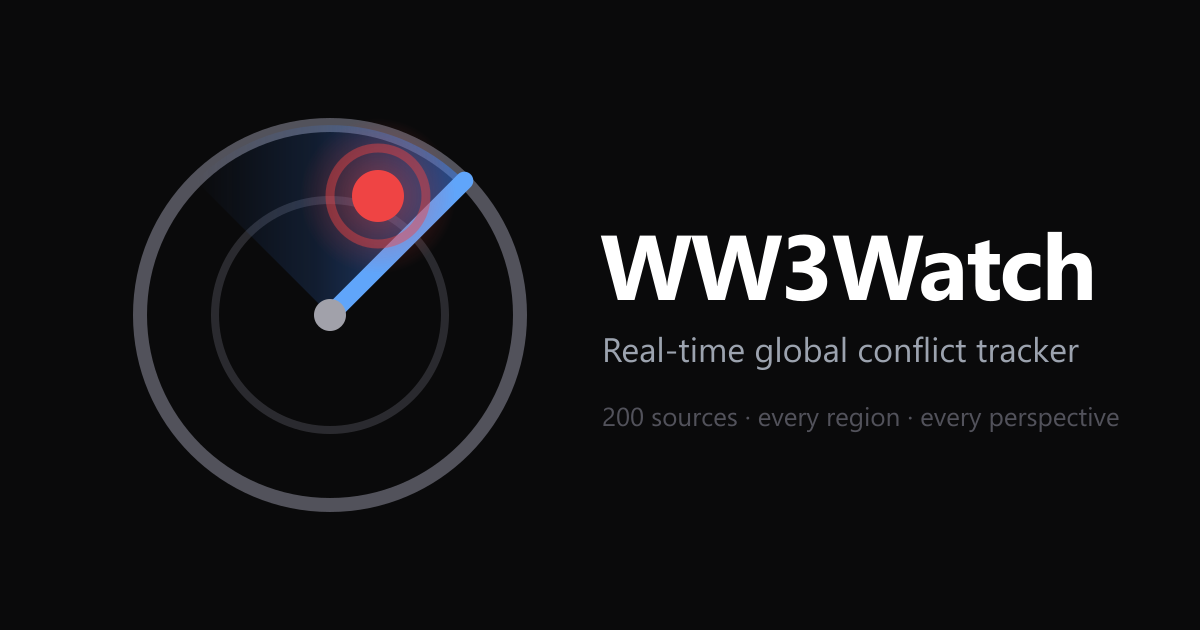
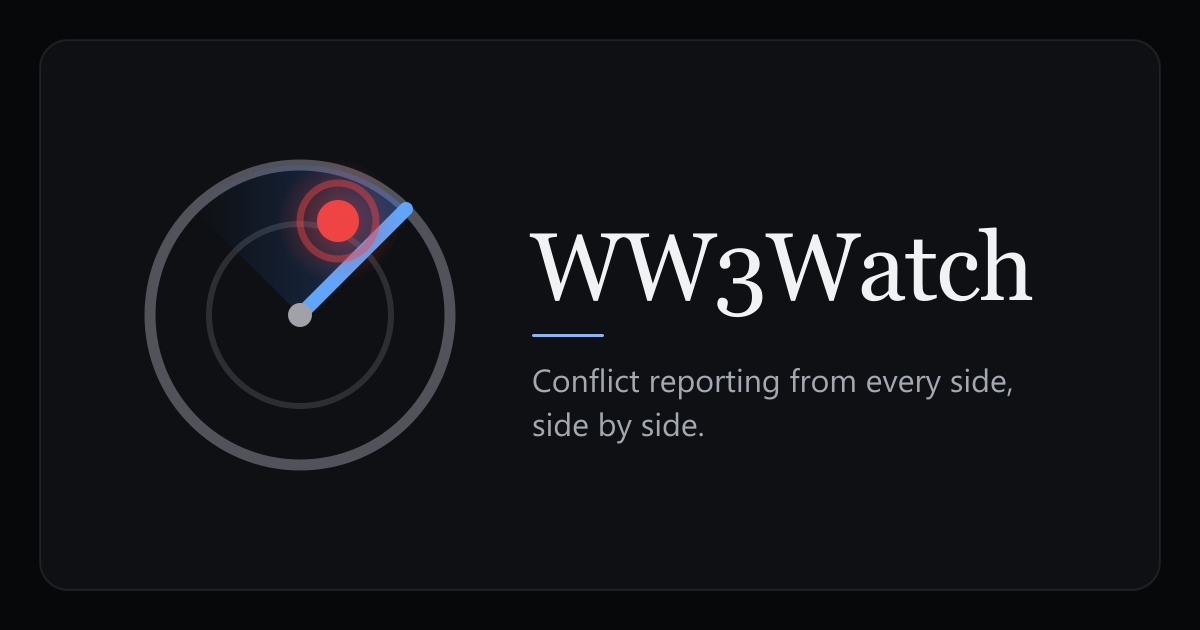
Shared links preview the story, not the site (#136)
* Shared links preview the story, not the site

Link previews read a page's meta tags without running the app, so every
shared story showed the same site card. A Cloudflare Worker in front of
ww3watch.org now fills them in for /?story= and /?article= with the
headline, source count and publisher photograph (same photo rules as the
app). Anything else, or any failure, is the untouched GitHub Pages page.

On Signal the address follows the story on screen, so Safari's own Share
button sends that story instead of the homepage. The fallback card is
redrawn in the app's theme without the stale source count.

* Set the share-card route in the dashboard, not the deploy

The deploy token keeps its Workers/Pages-only scope.

---------

Changed region(s): [[0.0925, 0.181, 0.925, 0.8143], [0.2775, 0.6032, 0.3083, 0.6333]]

diff --git a/cloudflare/share-card/index.ts b/cloudflare/share-card/index.ts
@@ -1,0 +1,94 @@
+// WW3Watch share-card — Cloudflare Worker in front of ww3watch.org.
+//
+// Why: the site is a static app on GitHub Pages, and link previews (iMessage,
+// WhatsApp, Slack, X…) read the page's meta tags without running it, so every
+// shared story used to show the same site card. For /?story= and /?article=
+// this rewrites those tags with the story's headline, sources and publisher
+// photograph (src/lib/share-card.ts). Everything else, and any failure, is the
+// untouched GitHub Pages response: the Worker can only ever improve a card.
+//
+// Local check: `npx wrangler dev` with ORIGIN=https://ww3watch.org in .dev.vars,
+// then curl http://localhost:8787/?story=<id>.
+
+import { CARD_COLUMNS, shareCard, type CardRow, type ShareCard } from '../../src/lib/share-card'
+
+interface Env {
+  SUPABASE_URL: string
+  SUPABASE_ANON_KEY: string
+  /** Dev only: where to fetch the page from instead of the real origin. */
+  ORIGIN?: string
+}
+
+const ID = /^[A-Za-z0-9_-]{1,64}$/
+
+export default {
+  async fetch(request: Request, env: Env): Promise<Response> {
+    const url = new URL(request.url)
+    const origin = () =>
+      env.ORIGIN ? fetch(new Request(new URL(url.pathname + url.search, env.ORIGIN), request)) : fetch(request)
+
+    const story = url.searchParams.get('story')
+    const article = url.searchParams.get('article')
+    const id = story ?? article
+    if (request.method !== 'GET' || url.pathname !== '/' || !id || !ID.test(id)) return origin()
+
+    const kind = story ? 'story' : 'article'
+    const [page, card] = await Promise.all([origin(), loadCard(env, kind, id).catch(() => null)])
+    if (!card || !page.ok || !page.headers.get('content-type')?.includes('text/html')) return page
+    return rewrite(page, card)
+  },
+}
+
+async function rows(env: Env, filter: string): Promise<CardRow[]> {
+  const res = await fetch(
+    `${env.SUPABASE_URL}/rest/v1/articles?select=${CARD_COLUMNS}&${filter}&order=published_at.desc.nullslast&limit=100`,
+    {
+      headers: { apikey: env.SUPABASE_ANON_KEY },
+      // A popular link is previewed by many chats at once; five minutes of edge
+      // cache keeps that to one query without letting a card go stale.
+      cf: { cacheTtl: 300, cacheEverything: true },
+    },
+  )
+  if (!res.ok) throw new Error(`supabase ${res.status}`)
+  return res.json()
+}
+
+async function loadCard(env: Env, kind: 'story' | 'article', id: string): Promise<ShareCard | null> {
+  if (kind === 'story') return shareCard(kind, id, null, await rows(env, `story_id=eq.${id}`))
+  const [target] = await rows(env, `id=eq.${id}`)
+  if (!target) return null
+  const members = target.story_id ? await rows(env, `story_id=eq.${target.story_id}`) : []
+  return shareCard(kind, id, target, members)
+}
+
+function rewrite(page: Response, card: ShareCard): Response {
+  const set = (value: string) => ({ element: (el: Element) => { el.setAttribute('content', value) } })
+  const drop = { element: (el: Element) => { el.remove() } }
+  const img = card.image
+  const dims = img?.width && img?.height ? { w: String(img.width), h: String(img.height) } : null
+
+  let r = new HTMLRewriter()
+    .on('title', { element: (el) => { el.setInnerContent(`${card.title} — WW3Watch`) } })
+    .on('meta[name="description"]', set(card.description))
+    .on('link[rel="canonical"]', { element: (el) => { el.setAttribute('href', card.url) } })
+    .on('meta[property="og:title"], meta[name="twitter:title"]', set(card.title))
+    .on('meta[property="og:description"], meta[name="twitter:description"]', set(card.description))
+    .on('meta[property="og:type"]', set('article'))
+    .on('meta[property="og:url"]', set(card.url))
+    .on('head', {
+      element: (el) => { el.append('<meta property="og:site_name" content="WW3Watch">', { html: true }) },
+    })
+  if (img) {
+    r = r
+      .on('meta[property="og:image"], meta[name="twitter:image"]', set(img.url))
+      .on('meta[property="og:image:alt"], meta[name="twitter:image:alt"]', set(img.alt))
+      .on('meta[property="og:image:width"]', dims ? set(dims.w) : drop)
+      .on('meta[property="og:image:height"]', dims ? set(dims.h) : drop)
+  }
+
+  const res = r.transform(page)
+  const headers = new Headers(res.headers)
+  // The same page for every link, but the card differs per query string.
+  headers.set('Cache-Control', 'public, max-age=300')
+  return new Response(res.body, { status: res.status, headers })
+}

diff --git a/scripts/generate-og.ts b/scripts/generate-og.ts
@@ -1,5 +1,5 @@
 // Renders static/og.png (1200×630) from an inline SVG — the radar brand mark
-// scaled up with a wordmark. Run locally and commit the PNG:
+// with a serif wordmark, in the app's theme (src/app.css tokens). Run locally and commit the PNG:
 //   node --import tsx scripts/generate-og.ts
 import sharp from 'sharp'
 import { writeFileSync } from 'node:fs'
@@ -17,24 +17,27 @@ const svg = `<svg viewBox="0 0 1200 630" xmlns="http://www.w3.org/2000/svg">
     </radialGradient>
   </defs>
 
-  <rect width="1200" height="630" fill="#0a0a0b"/>
+  <!-- The app's night ground (color-ink) with a hairline frame, like its panels. -->
+  <rect width="1200" height="630" fill="#070809"/>
+  <rect x="40" y="40" width="1120" height="550" rx="28" fill="#0e1013" stroke="#ffffff" stroke-opacity="0.08" stroke-width="2"/>
 
-  <!-- Radar mark, left side (center 330,315; scale ≈ favicon ×5) -->
+  <!-- Radar mark (center 300,315) -->
   <g>
-    <circle cx="330" cy="315" r="190" fill="none" stroke="#52525b" stroke-width="14"/>
-    <circle cx="330" cy="315" r="115" fill="none" stroke="#52525b" stroke-width="8" opacity="0.45"/>
-    <path d="M330 315 L464.3 180.7 A190 190 0 0 0 195.7 180.7 Z" fill="url(#sweep)"/>
-    <line x1="330" y1="315" x2="464.3" y2="180.7" stroke="#60a5fa" stroke-width="18" stroke-linecap="round"/>
-    <circle cx="330" cy="315" r="16" fill="#a1a1aa"/>
-    <circle cx="378" cy="196" r="78" fill="url(#blip-glow)"/>
-    <circle cx="378" cy="196" r="48" fill="none" stroke="#ef4444" stroke-width="9" opacity="0.45"/>
-    <circle cx="378" cy="196" r="26" fill="#ef4444"/>
+    <circle cx="300" cy="315" r="150" fill="none" stroke="#52525b" stroke-width="11"/>
+    <circle cx="300" cy="315" r="91" fill="none" stroke="#52525b" stroke-width="6" opacity="0.45"/>
+    <path d="M300 315 L406 209 A150 150 0 0 0 194 209 Z" fill="url(#sweep)"/>
+    <line x1="300" y1="315" x2="406" y2="209" stroke="#60a5fa" stroke-width="14" stroke-linecap="round"/>
+    <circle cx="300" cy="315" r="12" fill="#a1a1aa"/>
+    <circle cx="338" cy="221" r="62" fill="url(#blip-glow)"/>
+    <circle cx="338" cy="221" r="38" fill="none" stroke="#ef4444" stroke-width="7" opacity="0.45"/>
+    <circle cx="338" cy="221" r="21" fill="#ef4444"/>
   </g>
 
-  <!-- Wordmark + tagline -->
-  <text x="600" y="300" font-family="Segoe UI, Arial, sans-serif" font-size="92" font-weight="800" fill="#ffffff" letter-spacing="-2">WW3Watch</text>
-  <text x="602" y="362" font-family="Segoe UI, Arial, sans-serif" font-size="34" fill="#9ca3af">Real-time global conflict tracker</text>
-  <text x="602" y="426" font-family="Segoe UI, Arial, sans-serif" font-size="26" fill="#52525b">200 sources · every region · every perspective</text>
+  <!-- Serif wordmark like the app's headlines; sans around it. -->
+  <text x="530" y="300" font-family="Georgia, 'Times New Roman', serif" font-size="96" font-weight="500" fill="#f1f2f4" letter-spacing="-1.5">WW3Watch</text>
+  <rect x="532" y="334" width="72" height="3" rx="1.5" fill="#8fb4f5"/>
+  <text x="532" y="392" font-family="Segoe UI, Arial, sans-serif" font-size="32" fill="#a4a9b1">Conflict reporting from every side,</text>
+  <text x="532" y="436" font-family="Segoe UI, Arial, sans-serif" font-size="32" fill="#a4a9b1">side by side.</text>
 </svg>`
 
 const png = await sharp(Buffer.from(svg)).png().toBuffer()

diff --git a/src/lib/share-card.ts b/src/lib/share-card.ts
@@ -1,0 +1,83 @@
+// The link-preview card for a shared story or article: what iMessage, WhatsApp,
+// Slack and friends show when someone pastes a ww3watch.org/?story= or
+// ?article= link. The site is static, and those apps read the page's meta tags
+// without running the app, so the Cloudflare Worker in cloudflare/share-card
+// fills them in from these rows before the page leaves the edge.
+//
+// Same photo rules as the app (storyImage): the publisher's own photograph,
+// never a share card, logo or reused house graphic, and no text drawn on it.
+// Stories without one keep the site card (static/og.png).
+import type { Article } from './types'
+import { storyImage } from './cluster'
+import { headlineText } from './utils'
+
+export const CARD_COLUMNS =
+  'id,title,source_name,source_lang,published_at,story_id,image_url,image_width,image_height'
+
+export type CardRow = Pick<
+  Article,
+  'id' | 'title' | 'source_name' | 'source_lang' | 'published_at' | 'story_id' | 'image_url' | 'image_width' | 'image_height'
+>
+
+export interface ShareCard {
+  title: string
+  description: string
+  url: string
+  image: { url: string; width: number | null; height: number | null; alt: string } | null
+}
+
+const SITE = 'https://ww3watch.org'
+const ts = (a: CardRow) => a.published_at ?? ''
+
+/**
+ * @param kind   which link was shared
+ * @param id     the id in that link
+ * @param target the shared article (kind 'article'), if it still exists
+ * @param members every article in the story, newest first or in any order
+ */
+export function shareCard(
+  kind: 'story' | 'article',
+  id: string,
+  target: CardRow | null,
+  members: CardRow[],
+): ShareCard | null {
+  const all = members.length > 0 ? members : target ? [target] : []
+  if (all.length === 0) return null
+  const newest = all.reduce((best, a) => (ts(a) > ts(best) ? a : best), all[0])
+  const rep = kind === 'article' && target ? target : newest
+
+  // A story's headline in the language most people receiving it will read,
+  // when one of its outlets wrote one; an article link keeps its own.
+  const english = all.filter((a) => a.source_lang === 'en').sort((a, b) => ts(b).localeCompare(ts(a)))[0]
+  const headlineFrom = kind === 'story' && rep.source_lang !== 'en' && english ? english : rep
+  const title = headlineText(headlineFrom.title).trim()
+
+  const names = [...new Set([rep, ...[...all].sort((a, b) => ts(b).localeCompare(ts(a)))].map((a) => a.source_name))]
+  const description =
+    names.length > 1
+      ? `${names.length} sources, including ${names.slice(0, 3).join(', ')}. Compare the coverage on WW3Watch.`
+      : `Reported by ${names[0]}. Read it on WW3Watch.`
+
+  // storyImage takes a cluster; the shared article leads it so its own photo wins.
+  const photo = storyImage({
+    id,
+    storyId: null,
+    representative: rep as Article,
+    articles: [rep, ...all.filter((a) => a.id !== rep.id)] as Article[],
+    sourceCount: names.length,
+  })
+
+  return {
+    title,
+    description,
+    url: `${SITE}/?${kind}=${encodeURIComponent(id)}`,
+    image: photo
+      ? {
+          url: photo.url,
+          width: photo.article.image_width ?? null,
+          height: photo.article.image_height ?? null,
+          alt: `Photograph published by ${photo.sourceName}`,
+        }
+      : null,
+  }
+}

diff --git a/src/lib/share-card.test.ts b/src/lib/share-card.test.ts
@@ -1,0 +1,49 @@
+import { describe, it, expect } from 'vitest'
+import { shareCard, type CardRow } from './share-card'
+
+const row = (o: Partial<CardRow> & { id: string }): CardRow => ({
+  title: 'Headline', source_name: 'Reuters', source_lang: 'en', published_at: '2026-09-22T10:00:00Z',
+  story_id: 's1', image_url: null, image_width: null, image_height: null, ...o,
+})
+
+describe('shareCard', () => {
+  it('names the story, its source count and the publisher photo', () => {
+    const card = shareCard('story', 's1', null, [
+      row({ id: 'a', title: 'Older &amp; English', source_name: 'BBC', published_at: '2026-09-22T09:00:00Z',
+        image_url: 'https://bbc.example/photo.jpg', image_width: 1200, image_height: 800 }),
+      row({ id: 'b', title: 'Newest', source_name: 'Reuters' }),
+      row({ id: 'c', title: 'Also', source_name: 'TASS', source_lang: 'ru', published_at: '2026-09-22T08:00:00Z' }),
+    ])!
+    expect(card.title).toBe('Newest')
+    expect(card.url).toBe('https://ww3watch.org/?story=s1')
+    expect(card.description).toBe('3 sources, including Reuters, BBC, TASS. Compare the coverage on WW3Watch.')
+    expect(card.image).toEqual({ url: 'https://bbc.example/photo.jpg', width: 1200, height: 800, alt: 'Photograph published by BBC' })
+  })
+
+  it('prefers an English headline for a story led by another language', () => {
+    const card = shareCard('story', 's1', null, [
+      row({ id: 'a', title: 'Заголовок', source_lang: 'ru', source_name: 'TASS' }),
+      row({ id: 'b', title: 'Headline &amp; more', published_at: '2026-09-22T07:00:00Z' }),
+    ])!
+    expect(card.title).toBe('Headline & more')
+  })
+
+  it('keeps a shared article\'s own headline and photo', () => {
+    const target = row({ id: 't', title: 'Mine', source_name: 'AP', image_url: 'https://ap.example/p.jpg', published_at: '2026-09-22T01:00:00Z' })
+    const card = shareCard('article', 't', target, [row({ id: 'n', image_url: 'https://r.example/n.jpg' }), target])!
+    expect(card.title).toBe('Mine')
+    expect(card.image?.url).toBe('https://ap.example/p.jpg')
+    expect(card.url).toBe('https://ww3watch.org/?article=t')
+    expect(card.description).toMatch(/^2 sources, including AP, Reuters\./)
+  })
+
+  it('never uses a share card or logo as the photo', () => {
+    const card = shareCard('article', 't', row({ id: 't', image_url: 'https://ria.example/images/sharing/article/1.jpg' }), [])!
+    expect(card.image).toBeNull()
+    expect(card.description).toBe('Reported by Reuters. Read it on WW3Watch.')
+  })
+
+  it('returns null when nothing was found', () => {
+    expect(shareCard('story', 'gone', null, [])).toBeNull()
+  })
+})

diff --git a/src/routes/+page.svelte b/src/routes/+page.svelte
@@ -9,6 +9,10 @@
   import { createFilters } from '$lib/filters.svelte'
   import { createReaderRouting } from '$lib/deeplink.svelte'
   import { loadFeed } from '$lib/load-feed'
+  import { shareTarget } from '$lib/share'
+  import { replaceState } from '$app/navigation'
+  import { base } from '$app/paths'
+  import type { Cluster } from '$lib/cluster'
 
   // One home, two shapes, chosen by the screen rather than a toggle: Signal (one
   // story at a time, full screen) on a phone; the story desk (every story in a
@@ -53,6 +57,15 @@
   // Previous visit, frozen at mount so realtime prepends don't move the
   // "new since your last visit" line. null = first visit.
   let lastVisitAt = $state<number | null>(null)
+
+  // Signal: the address follows the story on screen, so sharing the page from
+  // the browser sends that story, same link as the Share button. Left alone
+  // while the reader is open; it owns the URL then.
+  function onSignalView(cluster: Cluster) {
+    if (reader.selectedArticle) return
+    const { search } = new URL(shareTarget(cluster.representative, cluster).url)
+    replaceState(`${base}/${search}`, {})
+  }
 
   function flushQueue() {
     feed.flushQueue()
@@ -228,6 +241,7 @@
           loadingMore={feed.loadingMore}
           ranked={filters.sortMode === 'top'}
           focusId={reader.selectedCluster?.id ?? null}
+          onview={onSignalView}
         />
       {/key}
     </div>

diff --git a/src/lib/components/SignalFeed.svelte b/src/lib/components/SignalFeed.svelte
@@ -11,6 +11,7 @@
     loadingMore,
     ranked = false,
     focusId = null,
+    onview,
   }: {
     clusters: Cluster[]
     onselect?: (a: Article) => void
@@ -21,6 +22,8 @@
     ranked?: boolean
     /** The story the open reader belongs to. */
     focusId?: string | null
+    /** The story on screen changed (not called for the first one on landing). */
+    onview?: (cluster: Cluster) => void
   } = $props()
 
   // A first-time visitor sees one story and no scrollbar, so nothing says there
@@ -44,7 +47,18 @@
     scroller.scrollTo({ top: story.offsetTop, behavior: 'instant' })
   })
 
+  // The story on screen, so the address bar (and Safari's own Share button)
+  // names it rather than the homepage.
+  let onScreen = 0
+  function reportView(el: HTMLElement) {
+    const i = Math.round(el.scrollTop / Math.max(1, el.clientHeight))
+    if (i === onScreen) return
+    onScreen = i
+    if (clusters[i]) onview?.(clusters[i])
+  }
+
   function onscroll(e: Event) {
+    reportView(e.currentTarget as HTMLElement)
     if (performance.now() - jumpedAt < 500) return
     if (swiped || (e.currentTarget as HTMLElement).scrollTop < 48) return
     swiped = true

diff --git a/e2e/signal.spec.ts b/e2e/signal.spec.ts
@@ -56,6 +56,17 @@ test('a first visit shows a swipe cue on the first story until the reader swipes
   await expect(hint).toHaveCount(0)
 })
 
+test('the address follows the story on screen, so a browser share sends it', async ({ page }) => {
+  expect(new URL(page.url()).search).toBe('')
+  await page.getByLabel('Stories', { exact: true }).evaluate((el) => el.scrollBy(0, el.clientHeight))
+  await expect(page).toHaveURL(/\/\?(story|article)=[\w-]+$/)
+  const onScreen = page.url()
+  await stories(page).nth(1).locator('a[href]').first().click()
+  await expect(reader(page)).toBeVisible()
+  await page.keyboard.press('Escape')
+  await expect(page).toHaveURL(onScreen)
+})
+
 test('the story scroller is keyboard reachable', async ({ page }) => {
   const scroller = page.getByLabel('Stories', { exact: true })
   await scroller.focus()
